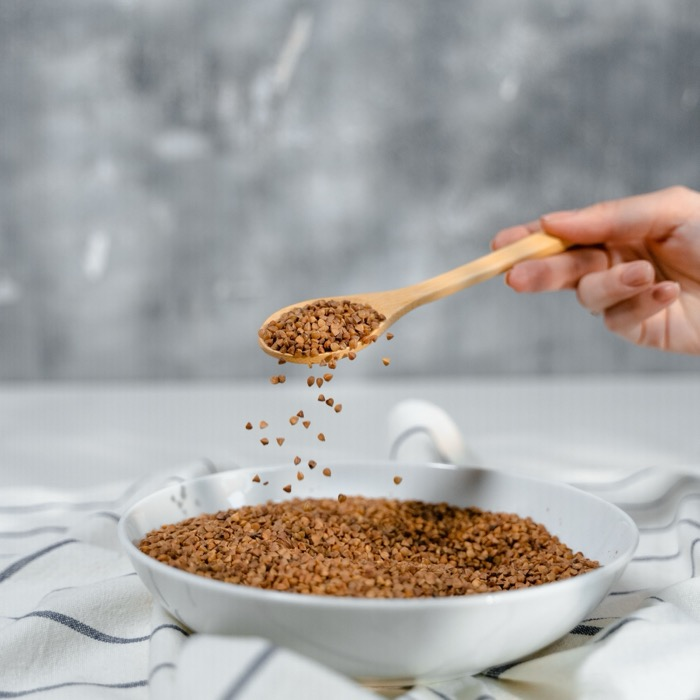
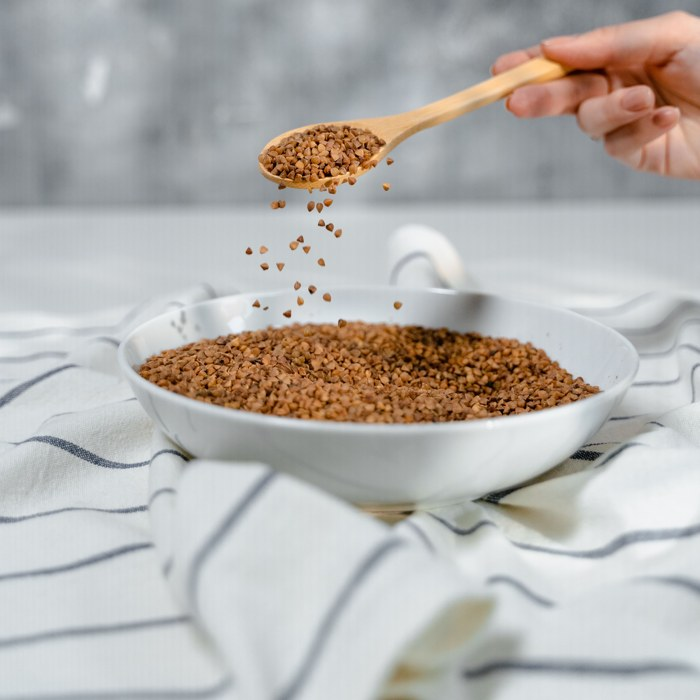
Яблоко по документу: все способы с 6 мес (не по нарастанию), честные подписи возраста; гречка перекадрирована к тарелке

diff --git a/src/components/ProductSheet.tsx b/src/components/ProductSheet.tsx
@@ -64,15 +64,16 @@ export function ProductSheet({ food, onClose }: { food: Food; onClose: () => voi
           <div className="section-t">Подача по возрасту</div>
           <div className="serve-list">
             {ages.map((a) => {
-              const [shape, text] = f.serve[a];
-              const isNow = a === currentStep;
+              const [shape, text, ageOverride] = f.serve[a];
+              const isNow = !ageOverride && a === currentStep;
+              const ageText = ageOverride ?? AGE_LABEL[a];
               return (
                 <div key={a} className={`serve-row ${isNow ? 'now' : ''}`}>
                   {SERVE_PHOTOS[f.id]?.[a]
-                    ? <img className="serve-photo" src={SERVE_PHOTOS[f.id][a]} alt={`${f.n}, ${AGE_LABEL[a]}`} loading="lazy" />
+                    ? <img className="serve-photo" src={SERVE_PHOTOS[f.id][a]} alt={`${f.n}, ${ageText}`} loading="lazy" />
                     : <ServeShape shape={shape} color={bg} size={104} />}
                   <div className="serve-info">
-                    <div className="serve-age">{AGE_LABEL[a]}{isNow && <span className="serve-now-tag">сейчас</span>}</div>
+                    <div className="serve-age">{ageText}{isNow && <span className="serve-now-tag">сейчас</span>}</div>
                     <div className="serve-shape-label">{serveLabel(shape)}</div>
                     <div className="serve-text">{text}</div>
                   </div>

diff --git a/src/types.ts b/src/types.ts
@@ -9,8 +9,9 @@ export type ShapeKey =
   | 'cubes' | 'dice' | 'grated' | 'spread' | 'flakes' | 'ball'
   | 'coin' | 'scramble' | 'whole' | 'wait';
 
-/** Подача по возрастам: ключ — месяц (6/8/10/12), значение — [форма подачи, текст] */
-export type ServeMap = Record<string, [ShapeKey, string]>;
+/** Подача: ключ — ступень (6/8/10/12), значение — [форма, текст, необязательная подпись возраста].
+ *  Подпись возраста нужна там, где по документу способ доступен раньше/с условием (напр. у яблока все способы с 6 мес). */
+export type ServeMap = Record<string, [ShapeKey, string] | [ShapeKey, string, string]>;
 
 export interface Food {
   id: string;

diff --git a/src/data/foods.ts b/src/data/foods.ts
@@ -107,7 +107,7 @@ export const FOODS: Food[] = [
     bg: ['#F7DFD8', '#EFBDB0'], dbg: ['#3F2C28', '#31231F'],
     benefit: 'Витамин C, пектин; помогает усвоению железа.', cook: 'Запечь или отварить до мягкости; сырое тереть с 12 мес.',
     store: 'Пюре — до суток; заморозить.', caution: 'Сырое кусочками — риск удушья: до года запечённое или тёртое.',
-    serve: { '6': ['whole', 'Целиком без кожуры — только пока нет зубов! Появились зубы — целое нельзя, риск удушья.'], '8': ['stick', 'Тонкими брусочками.'], '10': ['grated', 'Натёртое на крупной тёрке.'], '12': ['wedge', 'Запечённое — снять шкурку и нарезать.'] },
+    serve: { '6': ['grated', 'Натёртое на крупной тёрке — простой безопасный старт.', 'с 6 мес'], '8': ['stick', 'Тонкими брусочками.', 'с 6 мес'], '10': ['wedge', 'Запечённое — снять шкурку и нарезать.', 'с 6 мес'], '12': ['whole', 'Целиком без кожуры — только пока нет зубов! Появились зубы — целое нельзя, риск удушья.', 'с 6 мес, пока нет зубов'] },
   },
   {
     id: 'pear', e: '🍐', n: 'Груша', cat: 'Фрукты', fromMonth: 6, allergen: null, choke: 'средний', iron: false, status: null,

diff --git a/src/data/servePhotos.ts b/src/data/servePhotos.ts
@@ -2,5 +2,5 @@
 // Ключ — id продукта, вложенно — месяц → фото нужной нарезки.
 export const SERVE_PHOTOS: Record<string, Record<string, string>> = {
   zucchini: { '6': '/serve/zucchini-6.jpg', '8': '/serve/zucchini-8.jpg', '10': '/serve/zucchini-8.jpg', '12': '/serve/zucchini-8.jpg' },
-  apple: { '6': '/serve/apple-6.jpg', '8': '/serve/apple-8.jpg', '10': '/serve/apple-10.jpg', '12': '/serve/apple-12.jpg' },
+  apple: { '6': '/serve/apple-10.jpg', '8': '/serve/apple-8.jpg', '10': '/serve/apple-12.jpg', '12': '/serve/apple-6.jpg' },
 };